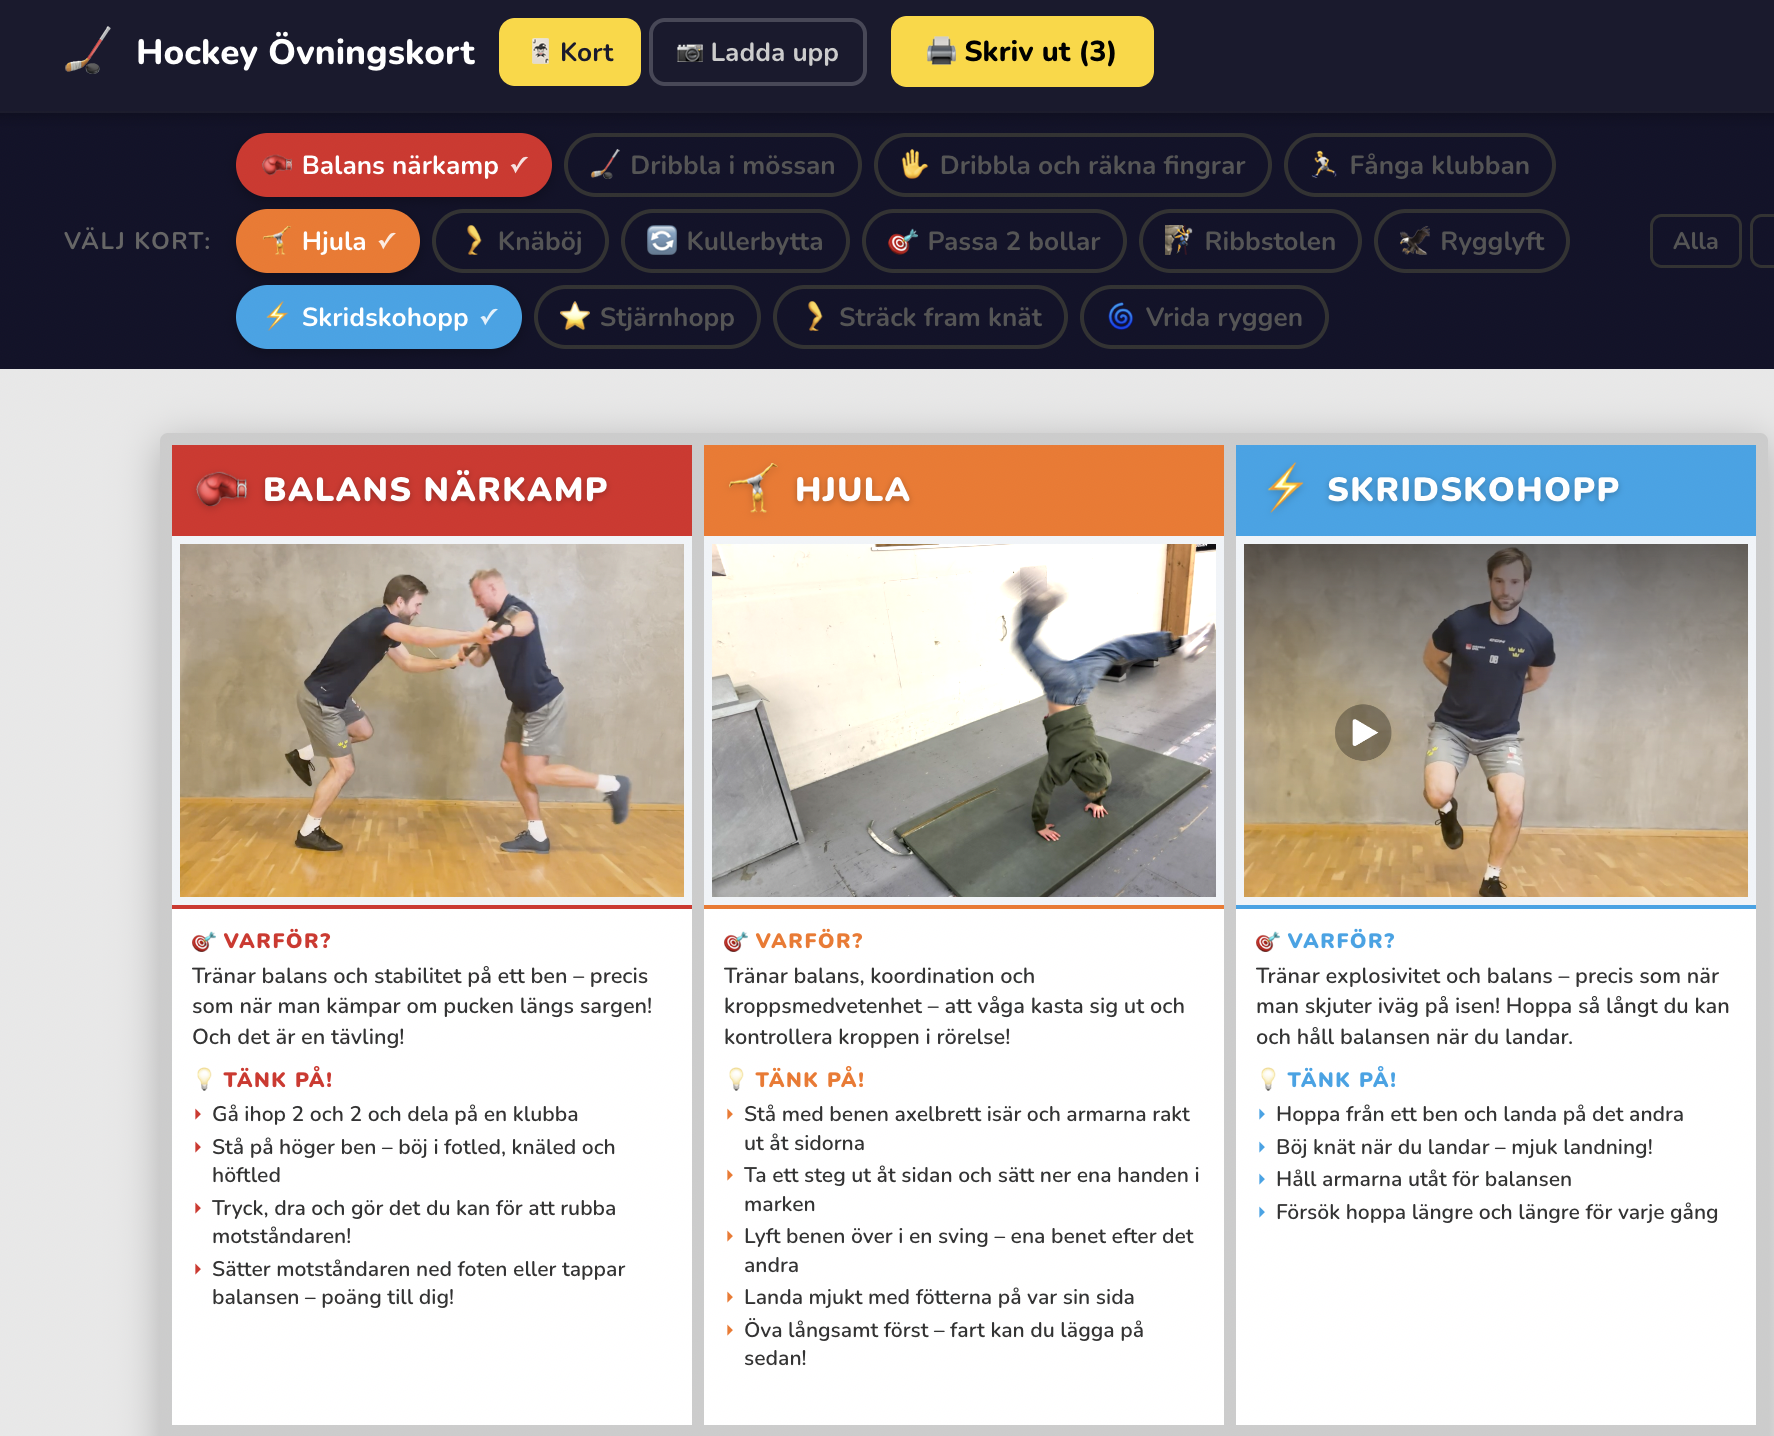
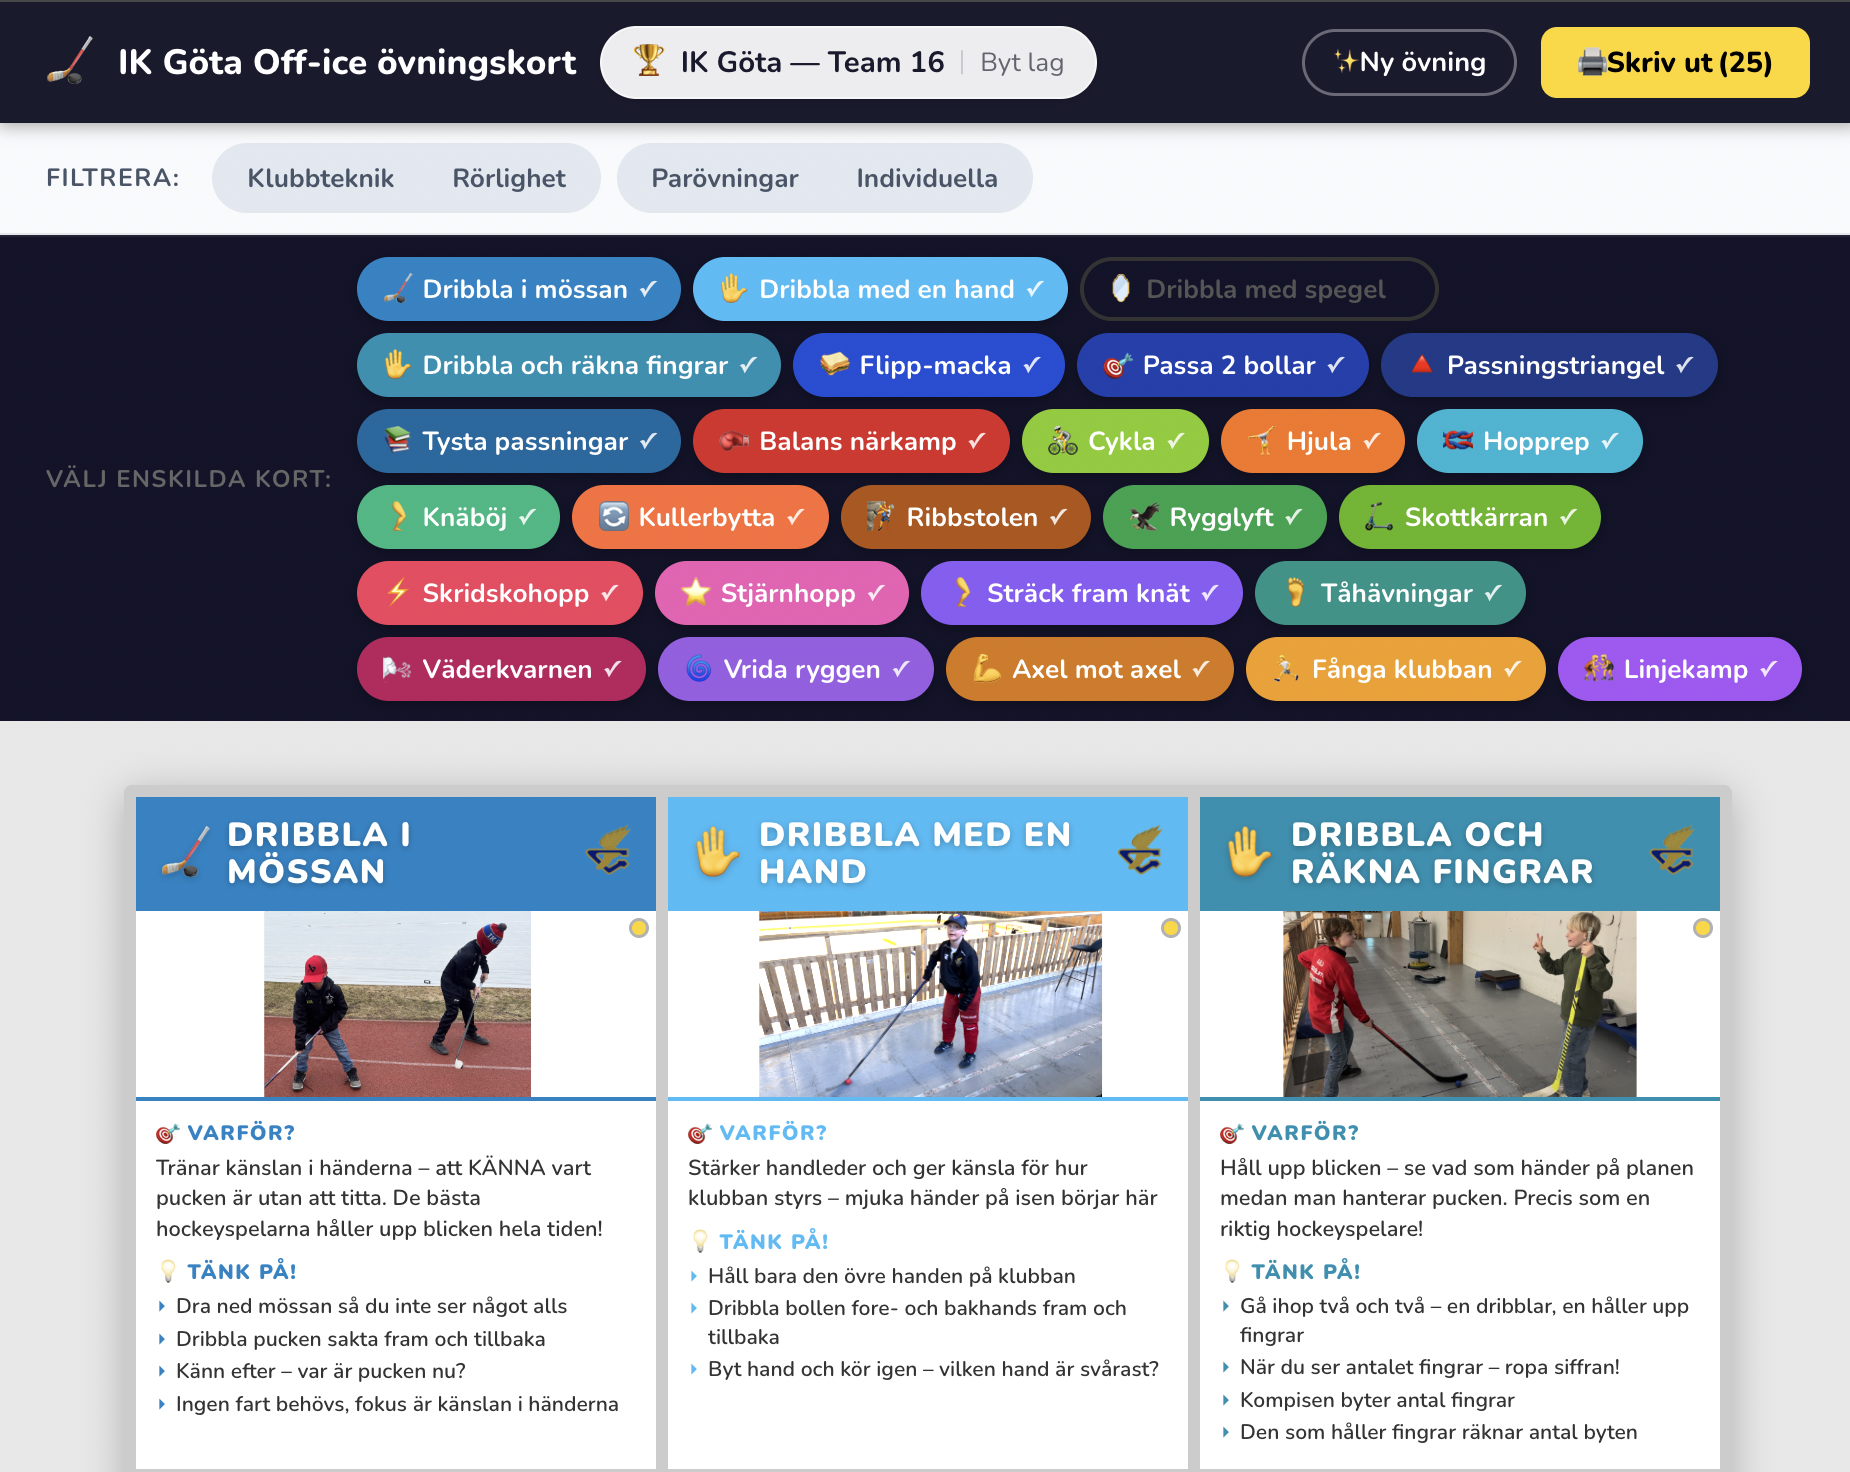
Readme update

diff --git a/README.md b/README.md
@@ -1,204 +1,84 @@
-# Hockey Övningskort
+# Hockey Övningskort 🏒
 
-Kortlek för off-ice smidighetsträning. Varje kort innehåller bild, syfte och tips.
-6 kort per A4-sida i liggande format – välj ut de kort du vill och skriv ut!
+En kortlek med övningar för hockey-träning utanför isen. Varje kort har bild, syfte och tips. Skriv ut sex kort per A4 (liggande) — eller bläddra i appen direkt på mobilen.
 
-Appen är öppen källkod. **Foton lagras krypterat** med [git-crypt](https://github.com/AGWA/git-crypt) och är aldrig synliga för utomstående.
+## 🌐 Använd appen
+
+👉 **[https://gota-off-ice.wilhelmeklund.com](https://gota-off-ice.wilhelmeklund.com)**
+
+Inloggning krävs. Hör av dig till Wille (se nedan) om du vill ha access till ditt lag.
 
 ![Appen](./public/hockey-cards-app.png)
 
+## Vad du kan göra
+
+- **Filtrera** övningarna på kategori — Klubbteknik / Rörlighet, Parövningar / Individuella.
+- **Skriv ut** kort i A4 liggande, 6 stycken per sida.
+- **Ladda upp egna foton** på era egna spelare när du valt ditt lag — roligare för barnen att se sina lagkamrater på korten. Bilderna lagras separat per lag.
+- **Skapa nya övningar** via ✨ Ny övning-knappen.
+- **Redigera övningstext** genom att öppna ett kort. Övningstexterna är gemensamma för alla lag — ändringar syns för alla.
+
+## Hör av dig
+
+För inloggning, frågor, feedback eller förslag på nya övningar:
+
+- 📧 [wille.eklund@gmail.com](mailto:wille.eklund@gmail.com)
+- 📱 [070-540 04 25](tel:+46705400425)
+
+— Wille, lagledare i IK Göta Team 16
+
 ---
 
-## Kom igång
+## För utvecklare
 
-### 1. Installera beroenden
-
-**Mac**
-
-Installera [Node.js](https://nodejs.org/) (välj LTS-versionen) om du inte redan har det.
-
-Installera sedan git-crypt via [Homebrew](https://brew.sh/):
-
-```bash
-brew install git-crypt
-```
-
-**Windows**
-
-Öppna PowerShell som administratör och installera WSL:
-
-```powershell
-wsl --install
-```
-
-Starta om datorn, öppna **Ubuntu** från startmenyn och kör:
-
-```bash
-sudo apt update && sudo apt install git-crypt nodejs npm -y
-```
-
-### 2. Klona repot
-
-```bash
-git clone https://github.com/willeeklund/hockey-cards.git
-cd hockey-cards
-```
-
-### 3. Lås upp krypterade bilder
-
-Du behöver nyckelfilen av den som äger repot (skickas privat).
-I detta exempel har du sparat nyckeln i filen `~/ikgota-team16-git-crypt-key`.
-
-```bash
-git-crypt unlock ~/ikgota-team16-git-crypt-key
-```
-
-Det här behöver du bara göra **en gång per dator**.
-
-### 4. Installera paket och starta
+### Köra lokalt
 
 ```bash
 npm install
 npm run dev
 ```
 
-Öppna [http://localhost:3000](http://localhost:3000) i webbläsaren.
+Öppna `http://localhost:3000`. Övningar och bilder ligger i `public/content/` respektive `public/exercise_images/<lagmapp>/`. Ingen basic auth lokalt.
 
----
+### Stack
 
-## Skriv ut
+- **Frontend:** React 18 + Vite + TypeScript
+- **Backend:** Express (Node 24), kör i Azure Container Apps
+- **Lagring:** Azure Blob Storage (bilder + övningstexter)
+- **Auth:** HTTP Basic auth (cloud)
+- **Telemetri:** Application Insights — sidvisningar + custom events (`TeamSelected`, `ImageUploaded`, `CardTextUpdated`, `ExerciseCreated`)
+- **API-docs:** Swagger UI på `/swagger/`
+- **OpenAPI-spec:** Genereras automatiskt från `@openapi`-JSDoc-block via `scripts/generate-openapi.mjs` vid varje `npm run build`
 
-Klicka på **🖨 Skriv ut** i toolbar:en.
+### Deploy & infrastruktur
 
-Rekommenderade skrivarinställningar:
-- Format: A4 liggande
-- Marginaler: Ingen / None
-- Bakgrundsgrafik: På (för att färger ska skrivas ut)
-
----
-
-## Lägga till en ny övning
-
-Det rekommenderade sättet är att använda [Claude Code](https://claude.ai/code) med det inbyggda kommandot `/skapa-kort`. Beskriv övningen på svenska så skapar Claude kortfilen åt dig – med rätt färg, emoji, syfte och tips.
-
-```
-/skapa-kort Kullerbytta – rulla framåt och res dig upp utan att använda händerna
-```
-
-Kommandot väljer automatiskt en färg som inte redan används och håller sig till max 4 tips.
-
-Vill du skapa kortet för hand, skapa en fil i `src/content/` och följ mallen nedan. Ladda sedan upp ett foto via **📷 Ladda upp** i appen – eller lägg filen direkt i `public/exercise_images/<din-lagmapp>/`.
-
-### Mall
-
-```yaml
----
-title: Namn på övning
-emoji: 🤸
-color: "#FF6B35"
-syfte: Beskriv varför övningen är bra – kort och kärnfullt!
-tips:
-  - Första tipset
-  - Andra tipset
-  - Tredje tipset
-  - Fjärde tipset
----
-```
-
-> **OBS:** Inget `image`-fält behövs. Appen letar automatiskt efter en bild med samma namn som filen – `namn-pa-ovning.jpg` – i din lagmapp (`IMAGES_FOLDER`).
-
-Tipsen får vara **max 4 punkter** – annars får det inte plats när man skriver ut.
-
----
-
-## Bilder och kryptering
-
-Bilder lagras i `public/exercise_images/<lagmapp>/` och krypteras automatiskt med git-crypt när du commitar. Utan nyckeln ser utomstående bara krypterade binärfiler – aldrig de faktiska fotona.
-
-Du behöver inte tänka på det i vardagen. Krypteringen sker automatiskt vid `git push` och dekrypteringen vid `git pull` (efter att du kört `git-crypt unlock` en gång).
-
----
-
-## Använda appen för ett annat lag
-
-Byt ut `ditt-lag` mot ert lags smeknamn (t.ex. `vasteras-u14`) i alla steg nedan.
-
-### 1. Forka och konfigurera
-
-1. Forka repot på GitHub
-2. Klona din fork lokalt
-3. Kopiera `.env.example` till `.env` och byt `IMAGES_FOLDER`:
-   ```
-   IMAGES_FOLDER=ditt-lag
-   ```
-
-### 2. Ta bort ikgota-team16 och lägg till din lagmapp
+Hela Azure-infran är beskriven i [`tofu/`](./tofu/) (OpenTofu / Terraform):
 
 ```bash
-# Ta bort det befintliga lagets krypterade mapp
-git rm -r public/exercise_images/ikgota-team16/
-
-# Skapa din lagmapp
-mkdir -p public/exercise_images/ditt-lag
+cd tofu
+tofu apply -var-file=envs/prod.tfvars
 ```
 
-### 3. Skapa din krypteringsnyckel
+För nya kod-deployer:
 
 ```bash
-# Initiera git-crypt (körs bara en gång per repo)
-git-crypt init
-
-# Exportera nyckeln – spara den säkert, du behöver dela den med lagkamrater
-git-crypt export-key ~/ditt-lag-git-crypt-key
+make manual-deploy
 ```
 
-> **Viktigt:** Nyckelfilen ska aldrig commitas till Git. Dela den privat med lagkamrater (t.ex. via en krypterad meddelandetjänst eller ett USB-minne).
+Mer detaljer i [`tofu/README.md`](./tofu/README.md).
 
-### 4. Committa och pusha
+### Synka content och bilder
+
+Den deployade appen lagrar allt i Azure Blob Storage. För att hämta hem aktuell state lokalt (för att t.ex. commita uppladdade bilder eller nyskapade övningar):
 
 ```bash
-git add public/exercise_images/ditt-lag/
-git commit -m "Byt till ditt-lag"
-git push
+make pull-content
 ```
 
-Dina foton krypteras automatiskt när du commitar – ingen utan nyckeln kan se dem.
-
-### Dela nyckeln med en lagkamrat
-
-Skicka filen `~/ditt-lag-git-crypt-key` privat till personen. De låser upp med:
+Och för att pusha lokala filer upp till blob:
 
 ```bash
-git-crypt unlock ~/ditt-lag-git-crypt-key
+make push-content
 ```
 
----
-
-## Bidra med övningar (utan foton)
-
-Pull requests med nya övningskort (bara `.md`-filer i `src/content/`) är välkomna! Inkludera aldrig foton i en PR – bildmappar är lagnspecifika och ska inte delas.
-
----
-
-## Projektstruktur
-
-```
-hockey-cards/
-├── public/
-│   └── exercise_images/
-│       └── ikgota-team16/   ← Krypterade lagfoton (ej synliga utan nyckel)
-├── src/
-│   ├── content/             ← En .md-fil per övning
-│   ├── components/
-│   │   ├── ExerciseCard.jsx / .css
-│   │   ├── SelectionBar.jsx / .css
-│   │   └── UploadView.jsx / .css
-│   ├── utils/
-│   │   └── parseCard.js
-│   ├── App.jsx / .css
-│   └── main.jsx
-├── .env                     ← Din lokala konfiguration (ej i Git)
-├── .env.example             ← Mall för .env
-├── .gitattributes           ← Styr vilka filer som krypteras
-└── index.html
-```
+Se Makefile för fler kommandon (`make help`).
